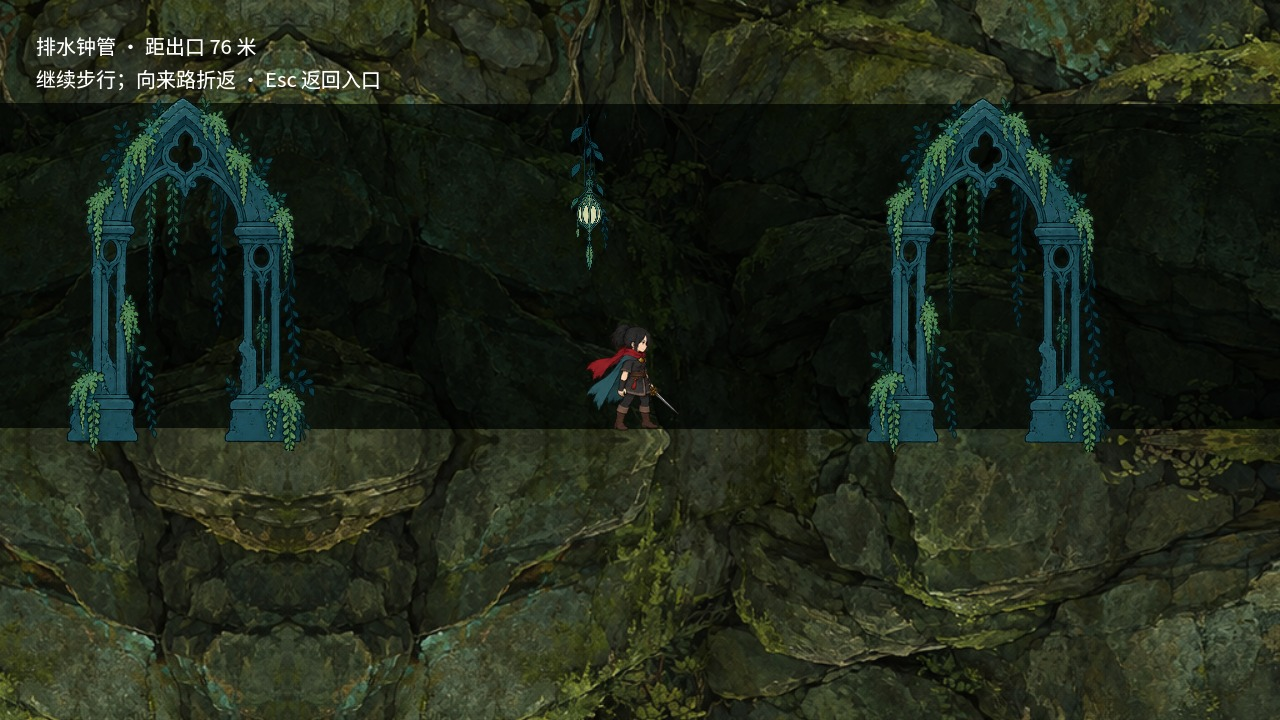
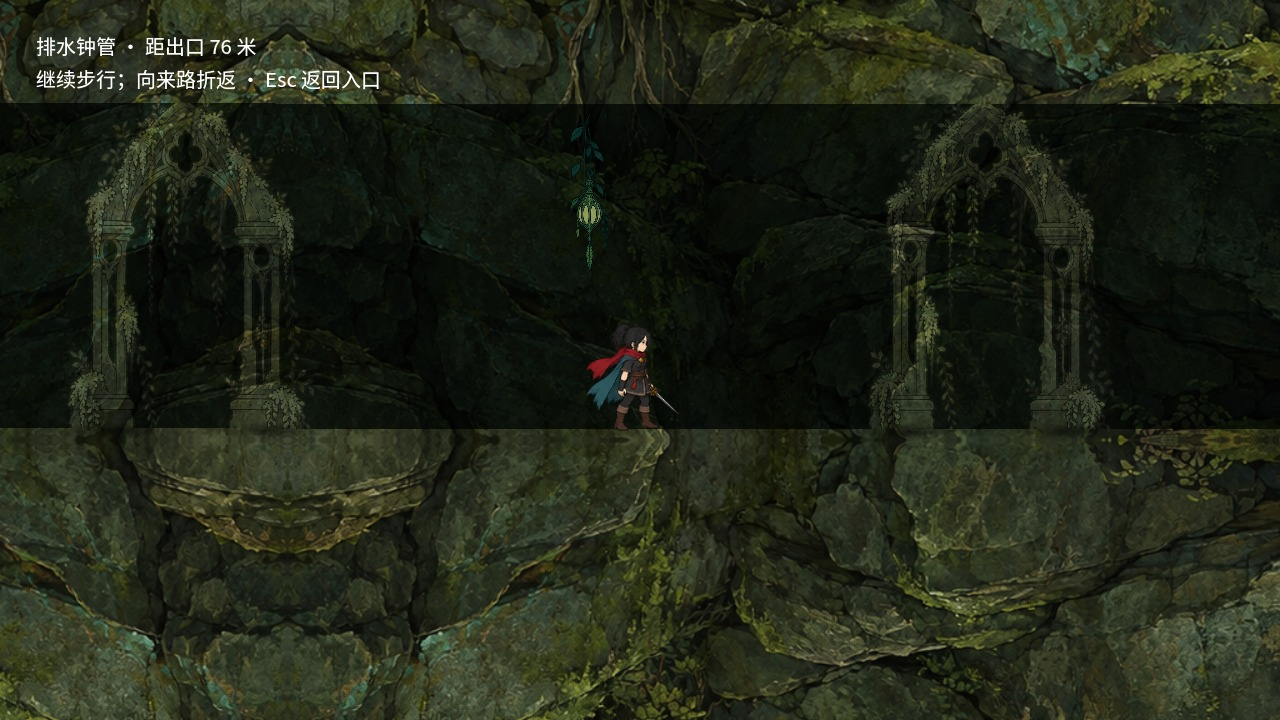
fix: blend pipe supports into stone midground with ground contact

Changed region(s): [[0.6562, 0.1222, 0.875, 0.6417], [0.0312, 0.1222, 0.25, 0.6417], [0.4375, 0.275, 0.4688, 0.3361]]

diff --git a/README.md b/README.md
@@ -4,7 +4,7 @@
 
 承接 PR #26 的邻区平台、岩层和斜坡预建，本批推进 W00c：苔钟庭与铸雨渠之间的排水钟管新增 8540 像素可往返实体路面。朝出口方向踏进入口即可进入，F 也可打开管道；需要实际走到另一端，途中可向来路折返，Esc 返回入口。原有能力门、另一侧闩门与源区存档恢复点保留。
 
-管道采用同一苔岩材质绘制顶板、地板和背墙；支撑架已换成完整苔石拱架贴图，加入同图集吊灯，统一比例与材质，角色保持可见。原区内容在管道内暂时隐藏、停止处理并隔离碰撞；出口仍执行可取消的分帧整区装载，保留宿主、玩家和构筑，完成时按固定世界坐标换算落点。**这是一条独立通道内容块，尚不是两区共用物理空间的无缝大世界。** 其它跨区连接仍是成对落点；连续世界地图、邻区角色/交互驻留和复杂提交预算仍待完成。
+管道采用同一苔岩材质绘制顶板、地板和背墙；支撑架采用完整苔石拱架与同图集吊灯；拱架与岩壁共用石材采样和苔褐色调，置于中景并由岩层遮挡柱脚与拱顶，补上接触阴影，人物保持前景可读。原区内容在管道内暂时隐藏、停止处理并隔离碰撞；出口仍执行可取消的分帧整区装载，保留宿主、玩家和构筑，完成时按固定世界坐标换算落点。**这是一条独立通道内容块，尚不是两区共用物理空间的无缝大世界。** 其它跨区连接仍是成对落点；连续世界地图、邻区角色/交互驻留和复杂提交预算仍待完成。
 
 本地 58 套 Godot 全量门禁零失败；随后最终受影响三套再次零失败，通道扩展到 52 项检查。免伤导航 25 步/3728 物理帧通过，不能计为六区带伤通关。真实 Mesa llvmpipe 的三处管道取样通过，新增人物显隐像素对照；原有岩壁接缝 12 项图形检查通过。退出 RefCounted 警告与编辑器导入 RID 问题继续列入 T03。远端 CI 以最终提交为准。
 

diff --git a/docs/report/20261012_first_walkable_passage.md b/docs/report/20261012_first_walkable_passage.md
@@ -44,3 +44,10 @@
 
 
 本次最终验证：Godot 4.6.1通道52项零失败，真实Mesa llvmpipe的3项图形检查零失败，人物显隐和构件显隐两组对照均通过。拱架/吊灯在三处取样贡献17509～26316个采样像素。首次GL检查仍有退出ObjectDB警告；随后改为通道独立持有装饰图集并在清理时释放，同时清理图形夹具中的构件引用。最终verbose GL日志没有该退出警告或ERROR，保留最初日志校验值。编辑器既有RID退出问题仍单独保留。三张最终素材实机图已目视复核。
+
+
+## 2026-10-13 中景材质与落地关系修正
+
+完整拱架贴图原本蓝青色、轮廓反差与岩壁不一致，且柱脚绘制在地板前方，仍显得像浮贴。本次新增仅用于管道支撑架的passage_support着色器：保留原素材alpha和雕刻明暗，将RGB去饱和并结合与岩壁相同的苔岩采样，调整为苔褐色调。构件层级移至背墙和岩层之间，地板/顶板真实遮住柱脚/拱冠；人物位于其前方。两侧柱脚增加柔和接触阴影，吊灯降低蓝青色与亮度反差。所有拱架使用同一材质，不随机换色。
+
+首轮调色偏暗，随后只调整支撑材质亮度并重新取得三处GL画面。最终截图已目视复核；人物和构件显隐像素对照仍全部通过，日志无ERROR或新增退出引用警告。通道52项零失败，覆盖实际输入往返、保存隔离、取消恢复；本次没有改动路面碰撞。详细结果记录在verification.json的layer_revision字段。素材基线4ac48fc的CI第71次已成功，本次提交的CI另行报告。
